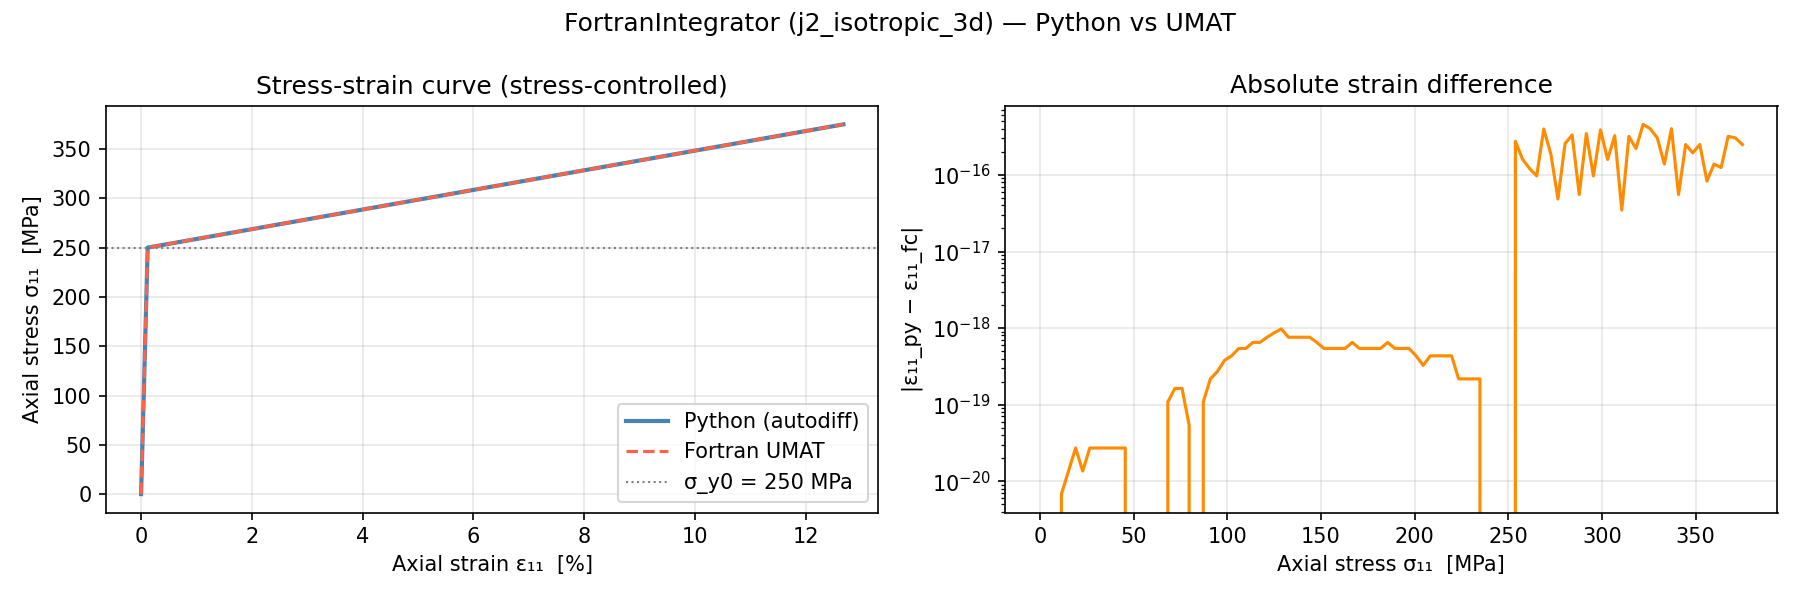
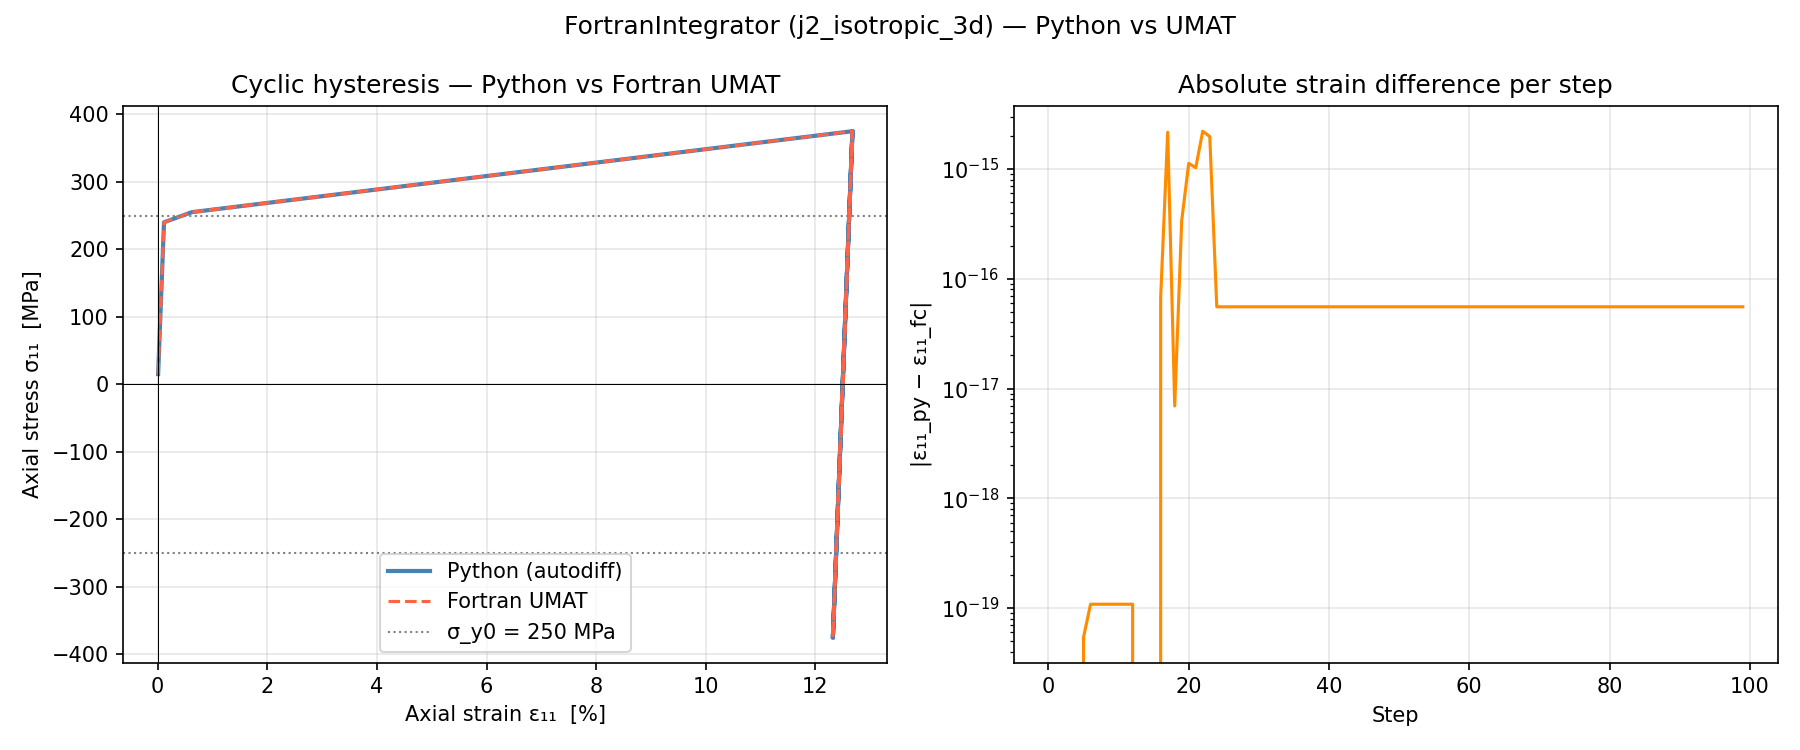
fix: FortranIntegrator — stress を state_names から除外・elastic_stiffness 追加 (#62)

Pull request: fix: FortranIntegrator — stress を state_names から除外・elastic_stiffness 追加
## Summary

- `FortranIntegrator.from_model` の auto-fill `state_names` から `"stress"` を除外 — `state field 昇格リファクタリング (f0b2ea1)` で `model.state_names` に stress が自動挿入されるようになり、Fortran UMAT に余分な引数が渡って `TypeError` が発生していた
- `FortranIntegrator.elastic_stiffness` メソッドを追加 — `_model` に委譲し、`StressDriver` がゼロ歪みプローブの代わりに弾性剛性を直接参照できるようにした（降伏面上でプローブすると弾塑性タンジェントが返り NR が発散していた）
- `ddsdde` を持たない Fortran サブルーチン（`mock_kinematic` 等）向けに `elastic_stiffness` へのフォールバックを復活
- `J2Isotropic3D.elastic_stiffness` に `@user_against_fortran` デコレーターを再追加（リファクタリングで消失していた）

## Test plan

- [x] `uv run python examples/example_fortran_uniaxial.py` → PASS (max rel diff 1.74e-14)
- [x] `uv run python examples/crosscheck_umat_external.py` → PASS (35/35)
- [x] `uv run python examples/crosscheck_umat_advanced.py` → All parts PASS
- [x] `make test-fortran` → 25/25 passed
- [x] `make test` → 528/528 passed (33 deselected)

🤖 Generated with [Claude Code](https://claude.com/claude-code)

diff --git a/src/manforge/simulation/integrator/fortran.py b/src/manforge/simulation/integrator/fortran.py
@@ -43,6 +43,23 @@ class FortranIntegrator:
         construction time.
     state_names : list[str]
         Ordered list of state-variable names, used by the default hooks.
+    elastic_stiffness_fn : callable, optional
+        ``elastic_stiffness_fn(state) -> ndarray`` — returns the elastic
+        stiffness matrix.  When provided, the instance exposes an
+        ``elastic_stiffness`` method that :class:`~manforge.simulation.StressDriver`
+        can use to compute the initial strain increment without probing the UMAT.
+        When ``None`` (default), ``StressDriver`` falls back to a zero-strain
+        UMAT probe.  :meth:`from_model` fills this automatically from
+        ``model.elastic_stiffness`` when the model provides it.
+        Mutually exclusive with ``elastic_stiffness_subroutine``.
+    elastic_stiffness_subroutine : str, optional
+        Name of an f2py-callable Fortran subroutine that returns the elastic
+        stiffness (e.g. ``"j2_isotropic_3d_elastic_stiffness"``).  When
+        provided, the integrator builds a wrapper internally that calls
+        ``fortran.call(name, *param_fn())`` and returns the result as the
+        elastic stiffness.  Use this to validate the Fortran elastic-component
+        implementation independently of any Python reference.  Mutually
+        exclusive with ``elastic_stiffness_fn``.
     state_to_args : callable, optional
         ``state_to_args(state_dict) -> tuple`` packs the state dict into
         positional UMAT args.  Defaults to ``state_names``-order packing.
@@ -52,9 +69,9 @@ class FortranIntegrator:
     parse_umat_ddsdde : callable, optional
         ``parse_umat_ddsdde(ret) -> ndarray`` extracts the consistent tangent
         from the f2py return tuple.  When ``None``, the tangent is read from
-        the first 2-D array found in the trailing returns (same as the default
-        hook used by :class:`~manforge.verification.CrosscheckStrainDriver` /
-        :class:`~manforge.verification.CrosscheckStressDriver`).
+        the first 2-D array found in the trailing returns.  If extraction fails
+        and ``elastic_stiffness_fn`` is provided, the elastic stiffness is used
+        as a fallback; otherwise the exception propagates.
 
     Notes
     -----
@@ -64,8 +81,6 @@ class FortranIntegrator:
     Driver loops that gate on ``step.result.is_plastic`` should guard with
     ``if result.is_plastic is True``.  ``stress_trial`` is not reconstructed on
     the Python side — the UMAT is treated as a closed verification target.
-    ``ddsdde`` is taken entirely from the UMAT output; if ``parse_umat_ddsdde``
-    raises, the exception propagates (no Python fallback).
     """
 
     def __init__(
@@ -77,16 +92,37 @@ class FortranIntegrator:
         initial_state,
         param_fn: Callable[[], tuple],
         state_names: list[str],
+        elastic_stiffness_fn: Callable | None = None,
+        elastic_stiffness_subroutine: str | None = None,
         state_to_args: Callable[[dict], tuple] | None = None,
         parse_umat_return: Callable[[tuple], tuple[np.ndarray, dict]] | None = None,
         parse_umat_ddsdde: Callable[[tuple], np.ndarray] | None = None,
     ) -> None:
+        if elastic_stiffness_fn is not None and elastic_stiffness_subroutine is not None:
+            raise ValueError(
+                "Pass elastic_stiffness_fn OR elastic_stiffness_subroutine, not both."
+            )
         self._fortran = fortran
         self._subroutine = subroutine
         self.dimension = dimension
         self._initial_state = initial_state
         self._param_fn = param_fn
         self._state_names = list(state_names)
+
+        if elastic_stiffness_subroutine is not None:
+            _sub = elastic_stiffness_subroutine
+            elastic_stiffness_fn = lambda state=None: fortran.call(_sub, *self._param_fn())
+
+        if elastic_stiffness_fn is not None:
+            # Bind as an instance method so hasattr(self, "elastic_stiffness")
+            # returns True only when a callable was actually provided.
+            import types
+            self.elastic_stiffness = types.MethodType(
+                lambda self_, state=None: np.asarray(
+                    elastic_stiffness_fn(state), dtype=np.float64
+                ),
+                self,
+            )
 
         n_state = len(self._state_names)
         self._s2a: Callable[[dict], tuple] = (
@@ -118,6 +154,8 @@ class FortranIntegrator:
         param_fn: Callable[[], tuple] | None = None,
         state_names: list[str] | None = None,
         initial_state=None,
+        elastic_stiffness_fn: Callable | None = None,
+        elastic_stiffness_subroutine: str | None = None,
         state_to_args: Callable[[dict], tuple] | None = None,
         parse_umat_return: Callable[[tuple], tuple[np.ndarray, dict]] | None = None,
         parse_umat_ddsdde: Callable[[tuple], np.ndarray] | None = None,
@@ -141,7 +179,19 @@ class FortranIntegrator:
             f2py-callable subroutine name.
         model : MaterialModel
             Must have ``param_names``, ``state_names``, ``initial_state``,
-            and ``dimension`` attributes.
+            and ``dimension`` attributes.  Auto-derived ``state_names``
+            excludes ``"stress"`` because ``stress_update`` always passes
+            ``stress_n`` as a dedicated positional argument — not as a state
+            slot.  Pass ``state_names=`` explicitly only if your UMAT expects
+            an additional stress array inside the state argument list.
+            If *model* has an ``elastic_stiffness`` method it is wired up
+            automatically so that :class:`~manforge.simulation.StressDriver`
+            can avoid probing the UMAT with a zero-strain call.
+            Pass ``elastic_stiffness_subroutine="..."`` to wire the
+            integrator's elastic stiffness to a Fortran subroutine instead
+            of the model's Python implementation.  This is useful when
+            validating the Fortran elastic component without depending on
+            the Python reference.
 
         Examples
         --------
@@ -161,12 +211,25 @@ class FortranIntegrator:
         _param_fn = param_fn if param_fn is not None else (
             lambda: tuple(getattr(model, n) for n in names)
         )
-        _state_names = state_names if state_names is not None else list(model.state_names)
+        # Exclude "stress" from the auto-derived list: Fortran UMATs receive
+        # stress as a dedicated positional argument (stress_in), not as a
+        # state-array slot.  Pass state_names= explicitly to override.
+        _state_names = (
+            state_names
+            if state_names is not None
+            else [n for n in model.state_names if n != "stress"]
+        )
         _initial_state = initial_state if initial_state is not None else model.initial_state
         _dimension = (
             dimension if dimension is not None
             else getattr(model, "dimension", SOLID_3D)
         )
+        if (
+            elastic_stiffness_fn is None
+            and elastic_stiffness_subroutine is None
+            and hasattr(model, "elastic_stiffness")
+        ):
+            elastic_stiffness_fn = model.elastic_stiffness
         return cls(
             fortran,
             subroutine,
@@ -174,6 +237,8 @@ class FortranIntegrator:
             param_fn=_param_fn,
             state_names=_state_names,
             initial_state=_initial_state,
+            elastic_stiffness_fn=elastic_stiffness_fn,
+            elastic_stiffness_subroutine=elastic_stiffness_subroutine,
             state_to_args=state_to_args,
             parse_umat_return=parse_umat_return,
             parse_umat_ddsdde=parse_umat_ddsdde,
@@ -201,7 +266,14 @@ class FortranIntegrator:
 
         f_stress, f_state = self._pur(ret)
         f_stress = np.asarray(f_stress, dtype=np.float64)
-        ddsdde = np.asarray(self._pudd(ret), dtype=np.float64)
+        try:
+            ddsdde = np.asarray(self._pudd(ret), dtype=np.float64)
+        except (ValueError, IndexError):
+            # UMAT does not return ddsdde (e.g. mock subroutines without tangent).
+            # Fall back to elastic stiffness when available, otherwise re-raise.
+            if not hasattr(self, "elastic_stiffness"):
+                raise
+            ddsdde = np.asarray(self.elastic_stiffness(state_n), dtype=np.float64)
 
         rm = ReturnMappingResult(
             stress=f_stress,

diff --git a/examples/crosscheck_umat_advanced.py b/examples/crosscheck_umat_advanced.py
@@ -2,6 +2,7 @@
 
 Demonstrates all features of the manforge Fortran crosscheck API:
 
+* Part 0 — Fortran-sourced elastic stiffness (elastic_stiffness_subroutine=)
 * Part 1 — CrosscheckStrainDriver   (multi-step, analytical integrator, ddsdde)
 * Part 2 — iter_run streaming + early break on failure
 * Part 3 — Jacobian inspection      (compare_jacobians / ad_jacobian_blocks)
@@ -57,6 +58,64 @@ def _make_fc_int(fortran):
 
 history = generate_strain_history(model)
 load = FieldHistory(FieldType.STRAIN, "eps", history)
+
+
+# =========================================================================
+# Part 0: Fortran-sourced elastic stiffness
+#
+#   elastic_stiffness_fn= accepts any callable, including a lambda that
+#   calls fortran.call() directly.  Use this when the elastic subroutine
+#   has a different parameter signature than the main UMAT param_fn.
+#
+#   elastic_stiffness_subroutine= is a shortcut: the integrator internally
+#   builds fortran.call(name, *param_fn()).  Use it when the elastic
+#   subroutine accepts exactly the same args as param_fn().
+#
+#   Both options cause hasattr(fc, "elastic_stiffness") == True so that
+#   StressDriver can compute the initial strain increment without probing
+#   the UMAT with a zero-strain call.
+# =========================================================================
+print("=" * 60)
+print("  Part 0: Fortran-sourced elastic stiffness")
+print("=" * 60)
+
+# --- 0a: elastic_stiffness_fn (general path) ---
+# j2_isotropic_3d_elastic_stiffness takes only (E, nu), not all 4 UMAT params,
+# so we use elastic_stiffness_fn= and capture model.E / model.nu explicitly.
+fc_int0 = FortranIntegrator.from_model(
+    fortran_j2,
+    "j2_isotropic_3d",
+    model,
+    elastic_stiffness_fn=lambda state=None: fortran_j2.call(
+        "j2_isotropic_3d_elastic_stiffness", model.E, model.nu
+    ),
+)
+C_fortran = fc_int0.elastic_stiffness()
+C_python  = model.elastic_stiffness()
+print(f"  elastic_stiffness_fn: Fortran C[0,0] = {C_fortran[0,0]:.1f}  "
+      f"(Python: {C_python[0,0]:.1f})")
+np.testing.assert_allclose(C_fortran, C_python, rtol=1e-10,
+                            err_msg="Fortran/Python elastic stiffness mismatch")
+
+# --- 0b: elastic_stiffness_subroutine (shortcut when param signatures match) ---
+# Build a standalone integrator whose param_fn returns exactly (E, nu) so
+# that fortran.call("j2_isotropic_3d_elastic_stiffness", *param_fn()) works.
+# (The main UMAT subroutine is not called here — this integrator is elastic-only.)
+fc_int0_sub = FortranIntegrator(
+    fortran_j2,
+    "j2_isotropic_3d",
+    initial_state=model.initial_state,
+    param_fn=lambda: (model.E, model.nu),
+    state_names=["ep"],
+    elastic_stiffness_subroutine="j2_isotropic_3d_elastic_stiffness",
+)
+C_sub = fc_int0_sub.elastic_stiffness()
+print(f"  elastic_stiffness_subroutine: C[0,0] = {C_sub[0,0]:.1f}")
+np.testing.assert_allclose(C_sub, C_python, rtol=1e-10,
+                            err_msg="elastic_stiffness_subroutine mismatch")
+
+print("  Fortran-sourced elastic stiffness: PASS")
+print()
 
 
 # =========================================================================
@@ -269,6 +328,9 @@ if fortran_mock is not None:
 
         def initial_state(self):
             return {"alpha": anp.zeros(self.ntens), "ep": anp.array(0.0)}
+
+        def elastic_stiffness(self, state=None):
+            return self.E * np.eye(self.ntens)
 
     mock_model = MockModel(E=1.0, H_kin=0.1, H_iso=0.05)
     ntens = mock_model.ntens

diff --git a/src/manforge/models/j2_isotropic.py b/src/manforge/models/j2_isotropic.py
@@ -81,6 +81,13 @@ class J2Isotropic3D(MaterialModel3D):
         self.sigma_y0 = sigma_y0
         self.H = H
 
+    @verified_against_fortran(
+        "j2_isotropic_3d_elastic_stiffness",
+        test="tests/fortran/test_j2_bindings.py::test_check_bindings_elastic_stiffness",
+    )
+    def elastic_stiffness(self, state=None) -> anp.ndarray:
+        return super().elastic_stiffness(state)
+
     def yield_function(self, state) -> anp.ndarray:
         """J2 yield function f = σ_vm − (σ_y0 + H · ep)."""
         sigma_y = self.sigma_y0 + self.H * state["ep"]

diff --git a/tests/fortran/test_umat_crosscheck.py b/tests/fortran/test_umat_crosscheck.py
@@ -247,6 +247,10 @@ class MockKinematicModel:
             "ep": anp.array(0.0),
         }
 
+    def elastic_stiffness(self, state=None):
+        import numpy as np
+        return self.E * np.eye(self.ntens)
+
 
 @pytest.fixture
 def mock_fortran():